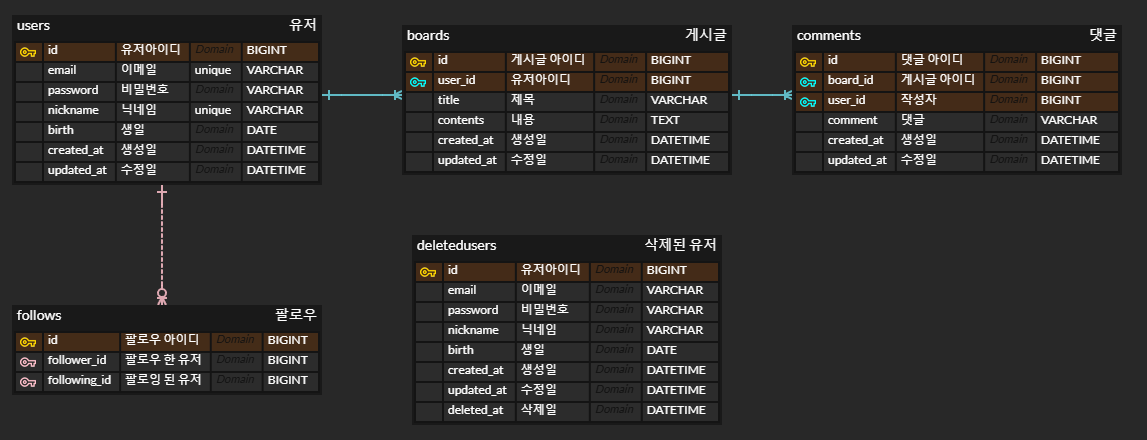
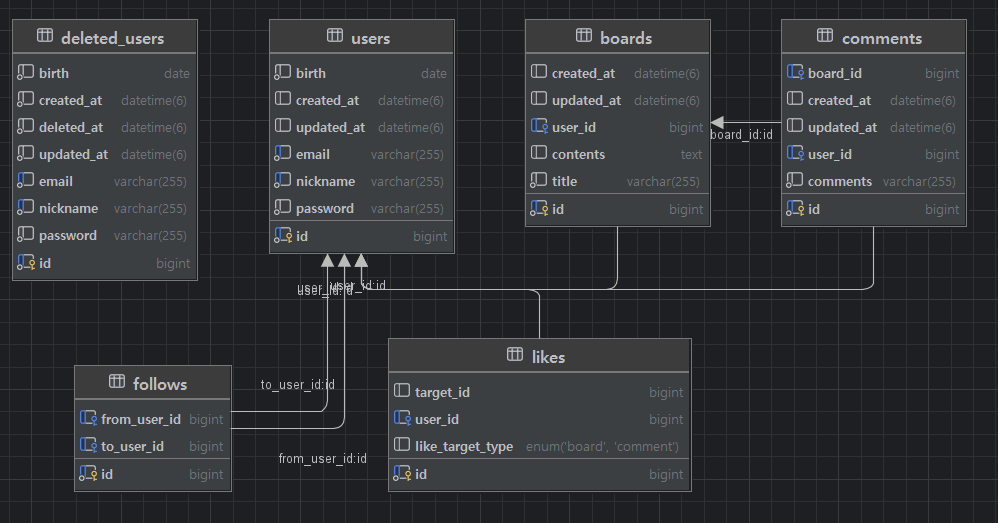
Docs: README 수정

diff --git a/ReadMe.md b/ReadMe.md
@@ -1,1 +1,107 @@
-### ReadMe
+![header](https://capsule-render.vercel.app/api?type=waving&color=auto&height=250&section=header&text=NewsFeed%20Project&fontSize=80)
+
+## 개요
+- Srping Boot, Spring Data JPA와 MySQL을 사용한 뉴스 피드 제작
+
+## 개발 환경
+언어 : ![Static Badge](https://img.shields.io/badge/Java-red?style=flat-square)  
+
+JDK : ![Static Badge](https://img.shields.io/badge/JDK-17-yellow?style=flat-square)  
+
+프레임워크 : ![Static Badge](https://img.shields.io/badge/SpringBoot-%23FFFF00?logo=springboot)  
+
+DB : ![Static Badge](https://img.shields.io/badge/MySql-%23FFFFFF?style=flat&logo=mysql)  
+
+ORM : ![Static Badge](https://img.shields.io/badge/JPA-FFA500?style=flat)  
+
+## 🔠 목차
+
+1. [API 명세서](#-api-명세서)
+2. [ERD](#-erd)
+3. [기능 요약](#-기능-요약)
+4. [디렉토리 구조](#-디렉토리-구조)
+
+# API 명세서
+![API.png](img/API.png)
+
+# ERD
+![erd.png](img/erd.png)
+
+# 기능 요약
+- 유저 CRUD
+- 뉴스피드 CRUD
+- 댓글 CRUD
+- 팔로우 CRUD
+- 좋아요 CRUD
+- JWT 를 이용한 로그인
+
+# 디렉토리 구조
+```
+/newsfeed
+├── common
+│       ├── config
+│       │       └── PasswordEncoder
+│       ├── exception
+│       │       ├── CustomException
+│       │       ├── ErrorCode
+│       │       ├── ErrorResponse
+│       │       ├── GlobalExceptionHandler
+│       │       └── UserNotFoundException
+│       ├── filter
+│       │       └── JwtAuthFilter
+│       └── jwt
+│             ├── JwtProperties
+│             └── JwtUtil
+├── controller
+│       ├── BoardController
+│       ├── CommentController
+│       ├── FollowController
+│       ├── LikeController
+│       └── UserController
+├── dto
+│     ├── board
+│     │     ├── BoardDetailResponseDto
+│     │     ├── BoardListDto
+│     │     ├── BoardRequestDto
+│     │     └── BoardResponseDto
+│     ├── comment
+│     │       ├── CommentRequestDto
+│     │       └── CommentResponseDto
+│     ├── follow
+│     │       └── FollowResponseDto
+│     ├── like
+│     │     └── LikeRequestDto
+│     └── user
+│           ├── DeleteUserRequestDto
+│           ├── LoginRequestDto
+│           ├── LikeRequestDto
+│           ├── SignUpResponseDto
+│           ├── UpdateNicknameRequestDto
+│           ├── UpdatePasswordRequestDto
+│           ├── UserRequestDto
+│           └── UserResponseDto
+├── entity
+│     ├── BaseEntity
+│     ├── Board
+│     ├── Comment
+│     ├── DeletedUser
+│     ├── Follow
+│     ├── Like
+│     ├── LikeType
+│     └── User
+├── repository
+│       ├── BoardRepository
+│       ├── CommentRepository
+│       ├── DeletedUserRepository
+│       ├── FollowRepository
+│       ├── LikeRepository
+│       └── UserRepository
+├── service
+│       ├── BoardService
+│       ├── CommentService
+│       ├── FollowService
+│       ├── LikeService
+│       └── UserService
+└── NewsfeedApplication
+
+```
